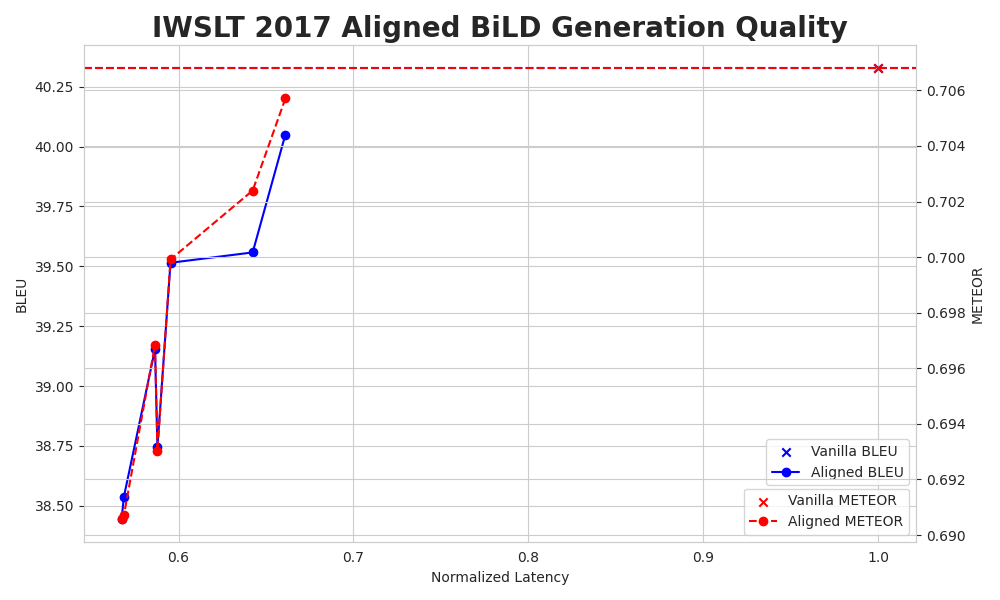
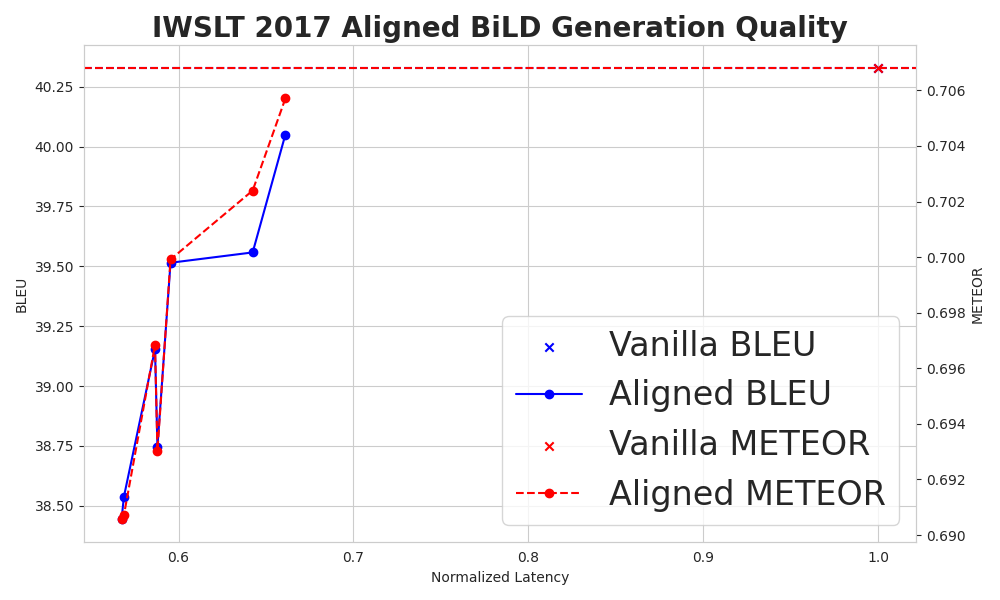
Improve metrics experiment graph quality

diff --git a/src/visualizations/show_metric.py b/src/visualizations/show_metric.py
@@ -127,11 +127,14 @@ def show_performance(experiment, hardware="tesla-t4", speedup=True, best=None):
         label=f"{'Aligned' if args.aligned else 'Unaligned'} {metric_labels[1]}", marker='o', linestyle="--", color='red'
     )
 
-    ax1.legend(loc='lower right', bbox_to_anchor=(1, 0.1))
-    ax2.legend(loc='lower right')
+    ax1.grid(True)
+    ax2.grid(False)
+
+    lines, labels = ax1.get_legend_handles_labels()
+    lines2, labels2 = ax2.get_legend_handles_labels()
+    plt.legend(lines + lines2, labels + labels2, loc='lower right', fontsize=24)
 
     plt.tight_layout()
-    plt.legend()
     file_name = f"{experiment}_{hardware}_metric_{'aligned' if args.aligned else 'unaligned'}_{'best_' + best if best else 'all'}"
     if args.pdf:
         plt.savefig(f"{file_name}.pdf", format="pdf")
